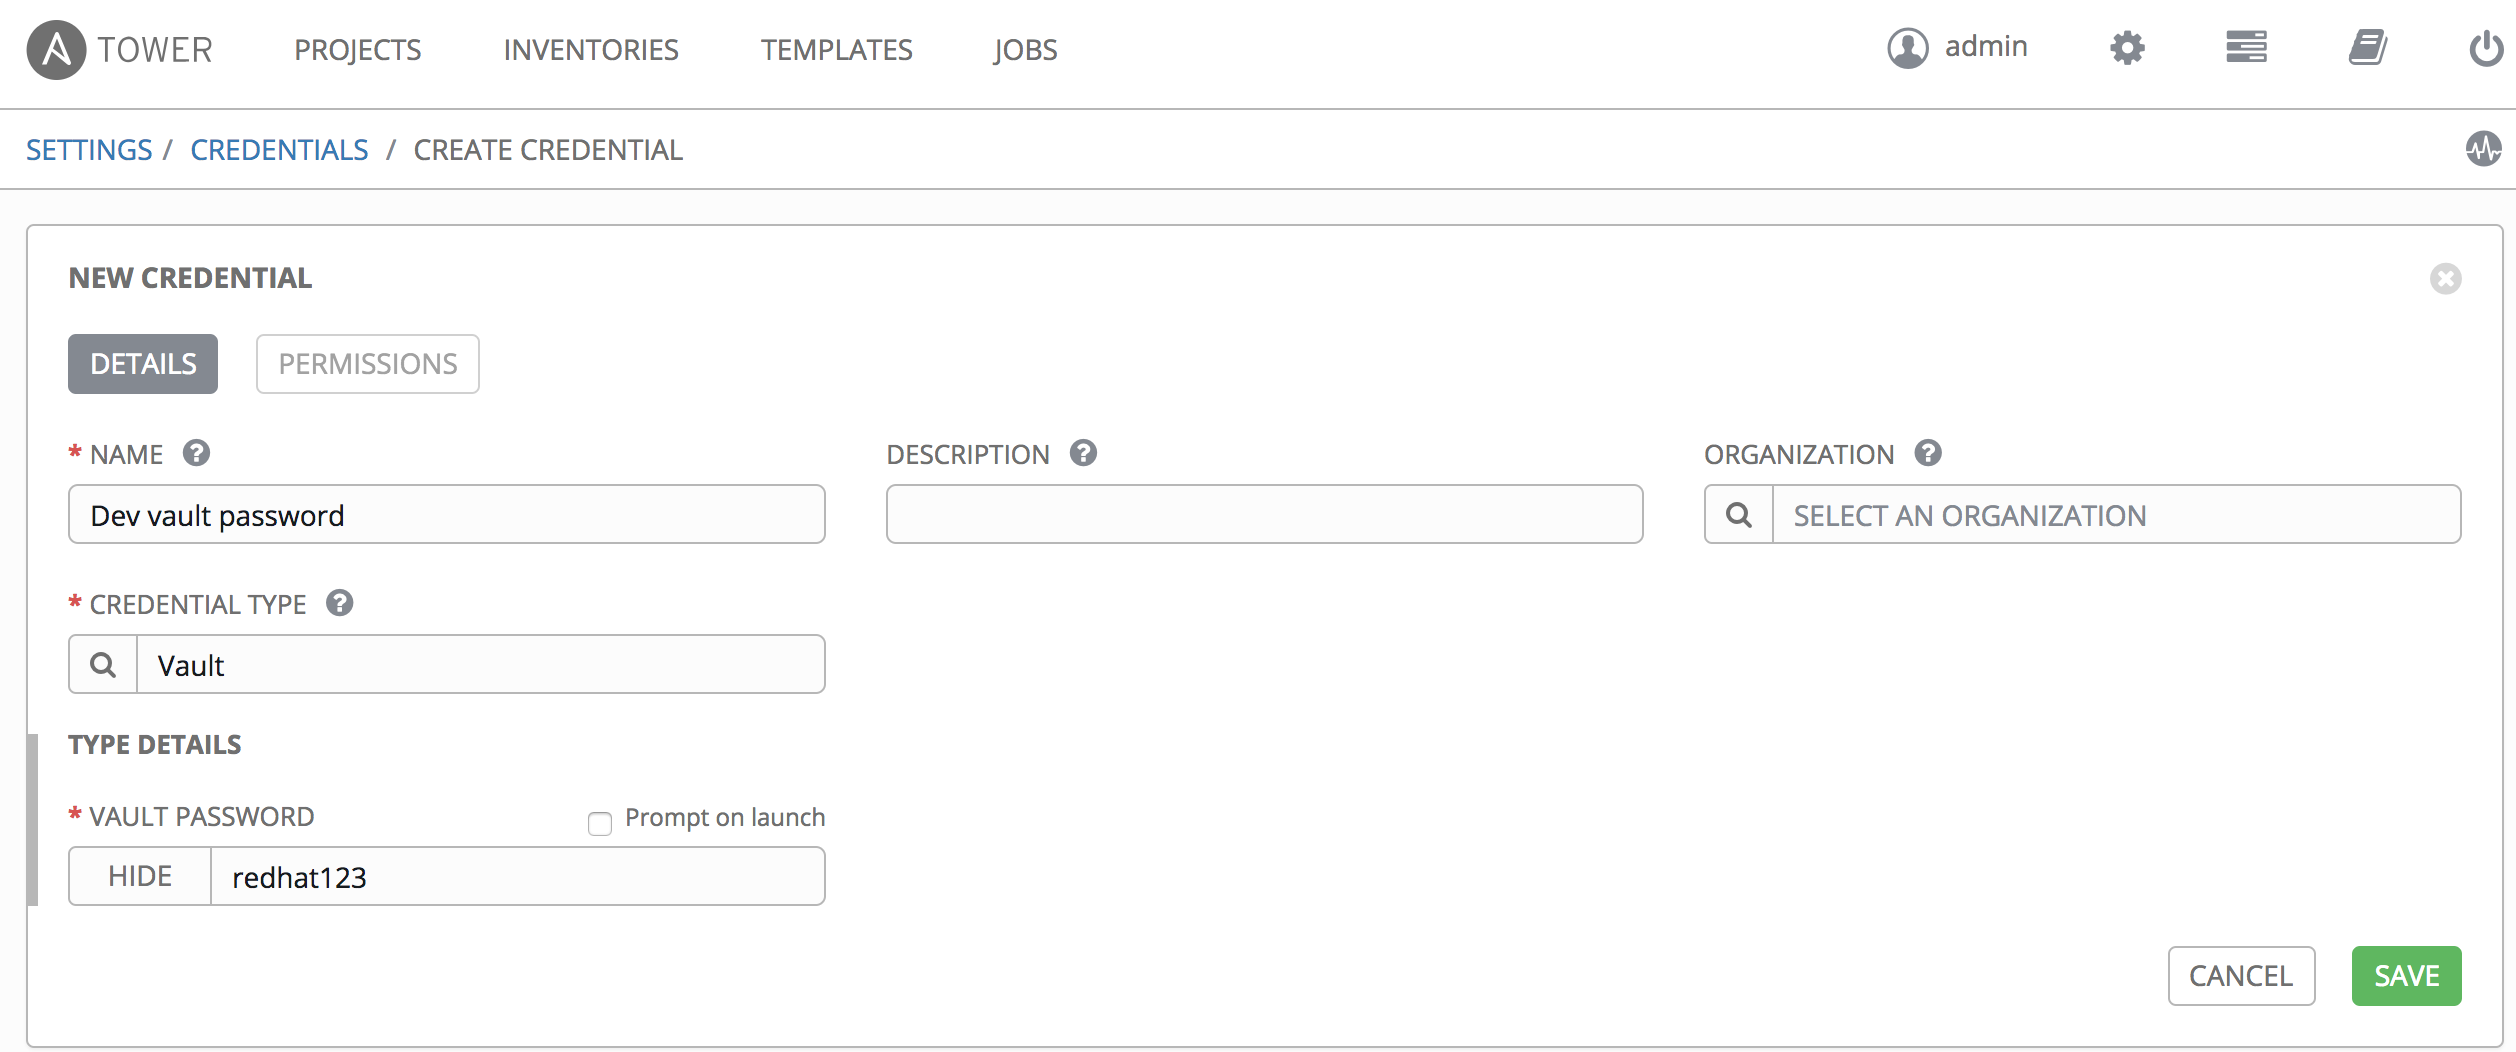
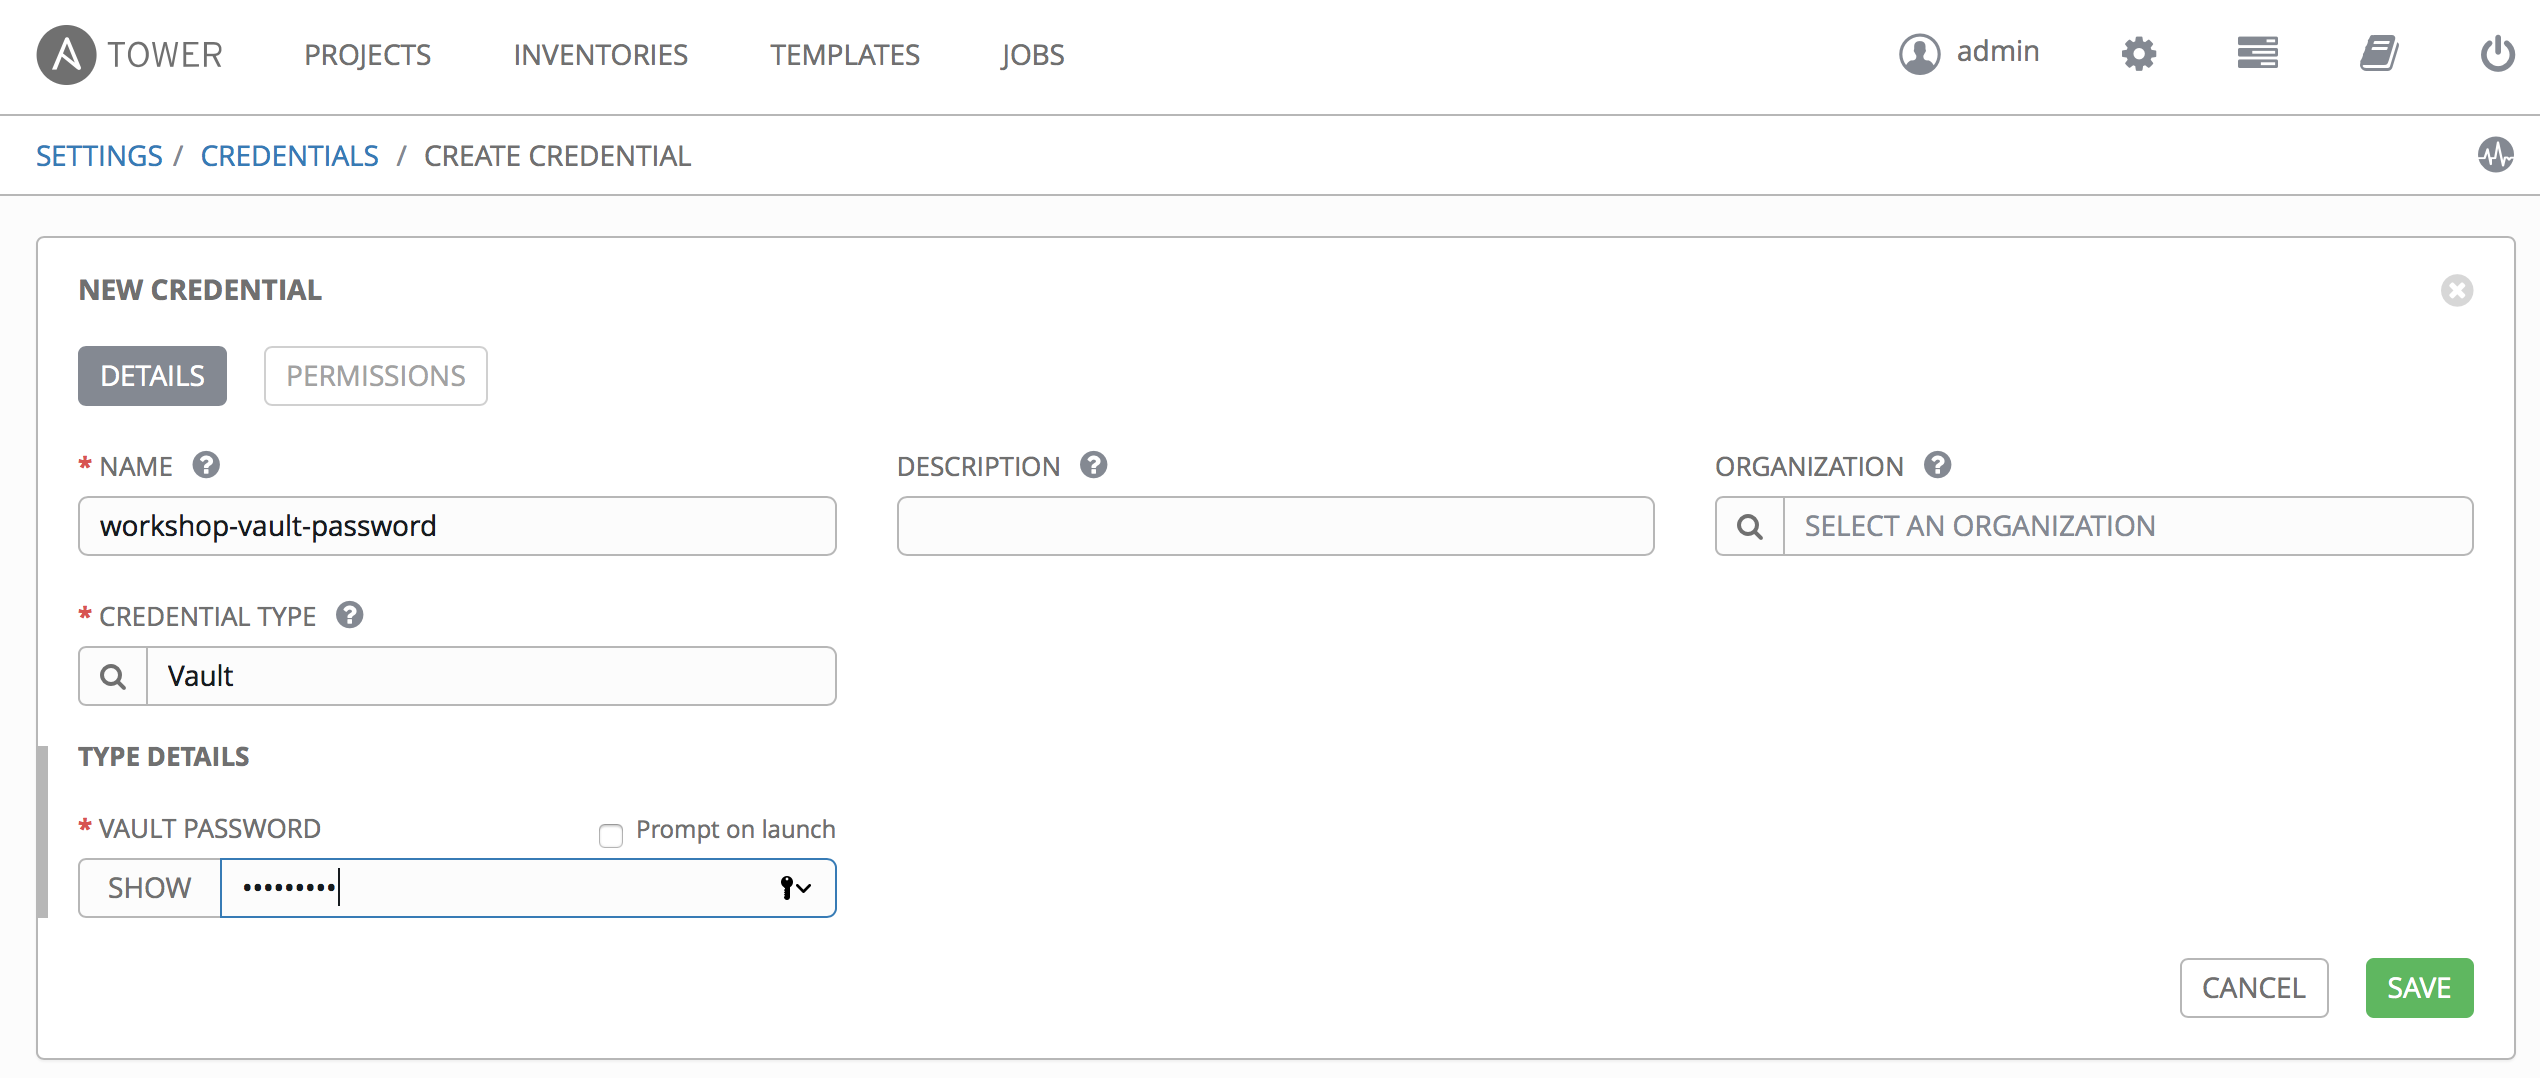
improved design, which is more easy to use

diff --git a/labs/lab-8/README.md b/labs/lab-8/README.md
@@ -1,10 +1,8 @@
 # Installing wildfly and nginx from Tower
 
-As the good developer you are, you want to make your playbooks available for the whole organization to run and benefit from. This lab will describe how you can do so.
+As the good developer you are, you want to make your playbooks for provisioning the wildfly app available for the whole organization to run and benefit from. This lab will describe how you can do so.
 
-First create a new git repo with $WORK_DIR as root directory. If you did [lab 6](https://github.com/mglantz/ansible-roadshow/tree/master/labs/lab-6), you can reuse that repo. If you don't want to spend time on git right now, you can use the one [provided by your instructor](https://github.com/jacobborella/ansible-roadshow-test).
-
-Next you need to instruct Ansible Tower to use the nginx module. You could install the module on Tower as previously, but this would have the unwanted effect that all projects on the Tower server would rely on this module. Furthermore the Tower server now needs special care if you need to reinstall it. Instead we'll instruct Tower to include the nginx module as part of our project. To do so, add a file *$WORK_DIR/roles* called *requirements.yml*, with the following content
+First you need to instruct Ansible Tower to use the nginx module. You could install the module on Tower as previously, but this would have the unwanted effect that all projects on the Tower server would rely on this module. Furthermore the Tower server now needs special care if you need to reinstall it. Instead we'll instruct Tower to include the nginx module as part of our project. To do so, add a file *$WORK_DIR/roles* called *requirements.yml*, with the following content
 ```
 ---
 - src: https://github.com/nginxinc/ansible-role-nginx
@@ -13,34 +11,35 @@ Next you need to instruct Ansible Tower to use the nginx module. You could insta
 ```
 Check in the change and you are ready to go.
 
-Login to the Ansible Tower server on the url and username/password provided by the instructor. If you haven't setup the credentials to your system as described in the lab [Introducing Ansible Tower](https://github.com/mglantz/ansible-roadshow/tree/master/labs/lab-7), please do so now:-)
+Login to the Ansible Tower server on the url and username/password provided by the instructor.
 
-First step is to add your code to Tower in form of a project. In this case we'll add the code in form of the git repo, you created earlier.
-First click *PROJECTS* in the top menu. Then click *ADD*. Finally fill in values as provided in below screenshot (replace git url with your repo url)
-![filling in project values](images/img2.png)
-Finally click *SAVE*
+You've made the Inventory and Project for getting started in the previouse lab, but there are some additional stuff you need to do. First you need to create the groups and add hosts to the groups. To do so go to "INVENTORIES" -> "workshop-inventory" -> GROUPS". Here click "+ADD GROUP".
+![create a group](images/create-group.png)
 
-Now your code should be fetched into Tower for use. You can verify this has happened by clicking *PROJECTS* menu item and verify there is a green dot left to your project name.
 
-Next we need to define our inventory. This is the same as using the hosts file, but to have everything under control in Tower, we'll use this mechanism. Click on the *INVENTORIES* menu item, click the green *ADD* button and select *Inventory* from the list. Name the inventory *Ansible Workshop machines* and click *SAVE*. Next select the *GROUPS* tab 
-![filling in groups](images/img3.png)
-
-Add three groups
+Create three groups named:
 * dev
-* lbservers
 * wildflyservers
+* lbservers
 
-![groups done](images/img4.png)
+Click "SAVE" for each group.
 
-Now select the *HOSTS* tab and add the three hosts, which has been assigned to you by the instructor.
+Next add the hosts to the correct groups. For each group click on the group name and then on the "HOSTS" tab. For instance clicking "dev" -> "HOSTS" will bring you to the following screen, where you can add hosts to the group
 
-When that's done, we need to associate the hosts with the groups. This is most easily done by clicking 'Ansible Workshop machines' in the breadcrumb near the top of the screen.
-![hosts done](images/img5.png)
+![Add hosts to a group](images/add-host-to-group.png)
 
-then select the *GROUPS* tab. Then click on the dev group and then the *HOSTS* tab. Now click *ADD* and select existing host. This will give you a menu, where you can select the hosts. For dev select all hosts and click *SAVE*.
-![dev group hosts](images/img6.png)
+* Add all hosts to the dev group.
+* Add client_system_1 to the lbservers group
+* Add client_system_2 and client_system_3 to the wildflyservers group
 
-Repeat the process for lbservers and wildflyservers, but this time only select the appropriate machines as in the *hosts* file.
+Using above described method.
+
+Next you need to setup the vault password for your playbooks. To do so click the *settings* menu item in top of the menu
+![settings location image](../lab-8/images/img0.png)
+
+On the items, which appear click *credentials*. Then click *ADD*. Select Vault as credential type and the fill in values as provided in below screenshot (replace password with whatever you chose).
+![filling in vault values](../lab-8/images/img1.png)
+Click *SAVE* and you're done with this part.
 
 Phew that's a lot of work. Luckily there is other ways of doing this, but the GUI is the easiest way to help you understand what's going on. Maybe grap a cup of cofee at this point - almost there.
 
